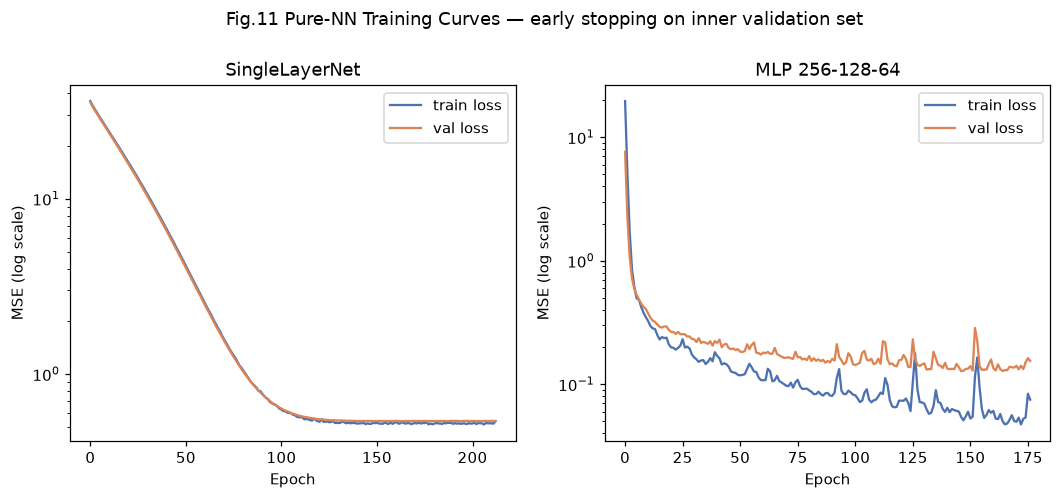
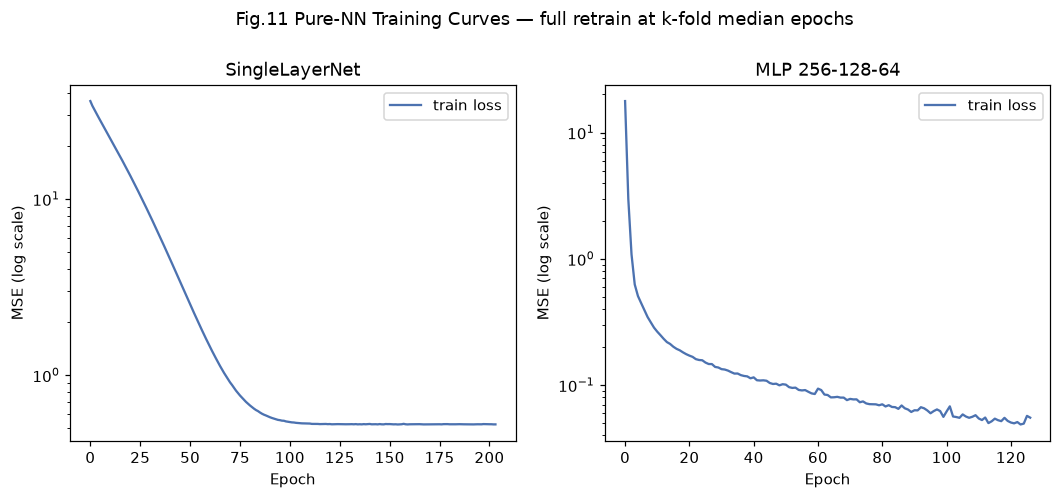
训练协议升级：5折定轮数+全量重训

diff --git a/03_train_nn.py b/03_train_nn.py
@@ -2,7 +2,7 @@
 """
 03_train_nn.py — 纯神经网络版：单层网络 + 多层感知机（MLP）
 ==========================================================
-共享单车租赁需求预测 | 阶段三
+共享单车租赁需求预测 | 阶段三（两阶段训练协议）
 
 目的：对应《动手学深度学习》主线（线性网络 → 多层感知机），
       提供一个**不依赖任何前序脚本产物**的独立全流程——
@@ -16,16 +16,18 @@
 
 本版本刻意极简，仅含 Linear 与 ReLU，不含正则化/归一化组件。
 
-流程：
-    1. 读 data/BikeData.csv → 清洗（与 02 协议一致）→ 特征工程
-    2. 目标 log1p；30% 测试集（random_state=42，与 02 完全一致）
-    3. 单层网络（无隐藏层 ≈ 线性回归）作基线
-    4. MLP（256-128-64）在训练集 80% 上训练、内切验证集早停
-    5. 测试集只在最终评估用一次：MSE/RMSE/MAE/R²，原始量纲
+两阶段训练协议（k 折交叉验证定轮数 → 全量重训）：
+    阶段一（定轮数）：5 折交叉验证切训练全集 6090 行；每折按现行超参
+        从头训练（折内再切 20% 做早停验证），记录该折最优轮数 best_epoch；
+        取五折中位数（int(np.median)）定为 EPOCHS_FINAL。
+        —— 每个数据点都当过验证点，轮数估计不再永久扣留 20% 样本。
+    阶段二（全量重训）：在 6090 行全集上以固定 epoch=EPOCHS_FINAL
+        从头训练，无验证集、无早停；早停机制只保留在阶段一。
+    测试集 30%（2610 行）从头到尾只在最终评估用一次，口径不变。
 
 输出：
-    - inbox/results_pure_nn.json      两模型四指标 + 数据行数
-    - inbox/figures/fig11_pure_nn_curves.png   单层 + MLP 训练曲线
+    - inbox/results_pure_nn.json      两模型四指标 + 协议信息
+    - inbox/figures/fig11_pure_nn_curves.png   两模型阶段二训练曲线
     - inbox/figures/fig12_pure_nn_pred.png     MLP 预测 vs 真实散点
 
 评估口径（与 02 预处理严格一致）：
@@ -44,7 +46,7 @@ import pandas as pd
 import torch
 import torch.nn as nn
 from sklearn.metrics import mean_absolute_error, mean_squared_error, r2_score
-from sklearn.model_selection import train_test_split
+from sklearn.model_selection import KFold, train_test_split
 from sklearn.preprocessing import StandardScaler
 
 # ---------- 路径：相对脚本位置推导（可移植，clone 后直接跑） ----------
@@ -55,6 +57,7 @@ FIG_DIR = INBOX / "figures"
 FIG_DIR.mkdir(parents=True, exist_ok=True)
 
 RANDOM_STATE = 42
+N_FOLDS = 5
 DEVICE = torch.device("cpu")   # 明确 CPU：数据量小，CPU 足够且可复现
 
 plt.rcParams.update({"figure.dpi": 110, "savefig.bbox": "tight"})
@@ -148,11 +151,11 @@ class MLP(nn.Module):
 # ---------- 训练循环（手写，理解每一步） ----------
 def train_model(model, X_tr, y_tr, X_val, y_val, *, lr,
                 batch_size, max_epochs, patience, tag, verbose=True):
-    """手写 mini-batch 训练循环 + 早停。
+    """手写 mini-batch 训练循环 + 早停（两阶段协议的阶段一专用）。
 
     为什么需要早停：MLP 容量大（数万参数）而训练数据仅数千行，
     容易过拟合——验证损失不再下降时停止，并回滚到验证最优权重。
-    验证集来自训练集内部，与测试集无关（防泄漏）。
+    验证集来自该折训练数据内部，与测试集无关（防泄漏）。
     """
     optimizer = torch.optim.Adam(model.parameters(), lr=lr)
     loss_fn = nn.MSELoss()                  # 回归口径：均方误差（log 空间）
@@ -200,6 +203,77 @@ def train_model(model, X_tr, y_tr, X_val, y_val, *, lr,
     return history, best_epoch, best_val
 
 
+def train_full(model, X_tr, y_tr, *, lr, batch_size, epochs, tag):
+    """阶段二：固定轮数全量重训（无验证集、无早停）。
+
+    轮数已由阶段一五折中位数确定；这里在训练全集（6090 行）上从头训练，
+    每一行数据都参与拟合——不再永久扣留 20% 样本做早停验证。
+    训练损失曲线完整记录（用于 fig11）。
+    """
+    optimizer = torch.optim.Adam(model.parameters(), lr=lr)
+    loss_fn = nn.MSELoss()
+    n = X_tr.shape[0]
+    history = {"train": []}
+
+    for epoch in range(1, epochs + 1):
+        model.train()
+        perm = torch.randperm(n)
+        epoch_loss, n_batches = 0.0, 0
+        for i in range(0, n, batch_size):
+            idx = perm[i:i + batch_size]
+            xb, yb = X_tr[idx], y_tr[idx]
+            optimizer.zero_grad()
+            loss = loss_fn(model(xb), yb)
+            loss.backward()
+            optimizer.step()
+            epoch_loss += loss.item()
+            n_batches += 1
+        history["train"].append(epoch_loss / n_batches)
+        if epoch % 50 == 0 or epoch == 1:
+            print(f"    [{tag}] epoch {epoch:>4}  train MSE={history['train'][-1]:.4f}")
+    return history
+
+
+def run_two_stage(tag, make_model, X_all, y_all, *, lr, batch_size,
+                  max_epochs, patience):
+    """两阶段协议（对每个模型执行）：5 折定轮数 → 全量重训。
+
+    阶段一：KFold(5, shuffle, random_state=42) 切训练全集；每折内再切
+            20% 做早停验证（与旧协议同口径，测试集零参与），从头训练
+            并记录该折 best_epoch；五折中位数定为 EPOCHS_FINAL。
+    阶段二：重置种子后在全集上以固定轮数从头训练。
+    每次训练（每折、每阶段）前都重置种子，保证两遍运行逐字节幂等。
+    """
+    kf = KFold(n_splits=N_FOLDS, shuffle=True, random_state=RANDOM_STATE)
+    fold_best = []
+    for k, (tr_idx, _) in enumerate(kf.split(X_all), 1):
+        Xk, yk = X_all[tr_idx], y_all[tr_idx]
+        X_fit, X_val, y_fit, y_val = train_test_split(
+            Xk, yk, test_size=0.2, random_state=RANDOM_STATE)
+        torch.manual_seed(RANDOM_STATE)     # 每折同种子：折间可比、重跑幂等
+        np.random.seed(RANDOM_STATE)
+        model = make_model().to(DEVICE)
+        _, best_epoch, best_val = train_model(
+            model, torch.tensor(X_fit), torch.tensor(y_fit),
+            torch.tensor(X_val), torch.tensor(y_val),
+            lr=lr, batch_size=batch_size, max_epochs=max_epochs,
+            patience=patience, tag=f"{tag}-fold{k}", verbose=False)
+        fold_best.append(best_epoch)
+        print(f"  [{tag}] 折 {k}/{N_FOLDS}: best_epoch={best_epoch:>3}  "
+              f"(best val MSE={best_val:.4f})")
+
+    epochs_final = int(np.median(fold_best))
+    print(f"  [{tag}] 五折 best_epoch 中位数 = {epochs_final} → 阶段二固定轮数")
+
+    torch.manual_seed(RANDOM_STATE)         # 阶段二同样固定种子
+    np.random.seed(RANDOM_STATE)
+    model = make_model().to(DEVICE)
+    hist = train_full(model, torch.tensor(X_all), torch.tensor(y_all),
+                      lr=lr, batch_size=batch_size,
+                      epochs=epochs_final, tag=f"{tag}-final")
+    return model, hist, epochs_final
+
+
 def evaluate(name, model, X_te, y_log_te, results, config=None):
     """统一评估：log 空间预测 → expm1 还原 → clip(0) → 原始量纲四指标。
 
@@ -227,14 +301,13 @@ def evaluate(name, model, X_te, y_log_te, results, config=None):
 
 # ---------- 可视化（标签用英文，避免环境缺中文字体出现方框） ----------
 def plot_curves(hist_sl, hist_mlp):
-    """Fig.11 单层 + MLP 训练曲线（log 纵轴：损失跨数量级更清晰）。"""
+    """Fig.11 单层 + MLP 阶段二训练曲线（log 纵轴：损失跨数量级更清晰）。"""
     fig, axes = plt.subplots(1, 2, figsize=(11.5, 4.2))
     for ax, (title, h) in zip(axes, [("SingleLayerNet", hist_sl), ("MLP 256-128-64", hist_mlp)]):
         ax.plot(h["train"], label="train loss", color="#4C72B0")
-        ax.plot(h["val"], label="val loss", color="#DD8452")
         ax.set(xlabel="Epoch", ylabel="MSE (log scale)", title=title, yscale="log")
         ax.legend()
-    fig.suptitle("Fig.11 Pure-NN Training Curves — early stopping on inner validation set",
+    fig.suptitle("Fig.11 Pure-NN Training Curves — full retrain at k-fold median epochs",
                  y=1.04)
     fig.savefig(FIG_DIR / "fig11_pure_nn_curves.png")
     plt.close(fig)
@@ -257,7 +330,7 @@ def plot_pred(true, pred):
 # ---------- 主流程 ----------
 def main():
     print("=" * 60)
-    print("阶段三：纯神经网络版（单层 + MLP，CPU 训练）")
+    print("阶段三：纯神经网络版（两阶段协议：5折定轮数 + 全量重训）")
     print("=" * 60)
 
     # ---- 1) 数据：原始 csv → 清洗 → 特征工程 → 划分（全部自包含） ----
@@ -273,6 +346,7 @@ def main():
     print(f"[划分] 训练 {X_train.shape[0]} 行 / 测试 {X_test.shape[0]} 行"
           f"（30%，random_state=42）")
     assert X_test.shape[0] == 2610, f"测试集行数异常：{X_test.shape[0]}（应为 2610）"
+    assert X_train.shape[0] == 6090, f"训练集行数异常：{X_train.shape[0]}（应为 6090）"
 
     # 标准化：神经网络对输入量纲敏感（各特征梯度尺度不一）。
     # scaler 只在训练集上 fit 再变换测试集——防止测试集统计量泄漏进训练
@@ -281,50 +355,34 @@ def main():
     Xte = scaler.transform(X_test).astype(np.float32)
     ytr = y_train.to_numpy(dtype=np.float32)
     yte = y_test.to_numpy(dtype=np.float32)
-
-    # 早停用验证集：从训练集内再切 20%（测试集零参与）
-    X_fit, X_val, y_fit, y_val = train_test_split(
-        Xtr, ytr, test_size=0.2, random_state=RANDOM_STATE)
-    X_fit, y_fit = torch.tensor(X_fit), torch.tensor(y_fit)
-    X_val, y_val = torch.tensor(X_val), torch.tensor(y_val)
     X_te, y_te = torch.tensor(Xte), torch.tensor(yte)
-    print(f"[切分] 早停验证集 {X_val.shape[0]} 行（来自训练集内部）")
+    print(f"[协议] 阶段一 KFold({N_FOLDS}) 定轮数 → 阶段二 {Xtr.shape[0]} 行全量重训")
 
     results = {}
 
     # ================= 2) 单层网络（基线，≈线性回归） =================
     print("\n---- 1. 单层网络（无隐藏层，≈线性回归） ----")
-    torch.manual_seed(RANDOM_STATE)         # 固定初始化，重跑幂等
-    np.random.seed(RANDOM_STATE)
-    sl = SingleLayerNet(Xtr.shape[1]).to(DEVICE)
-    # 超参取自此前的验证集调参结论
-    hist_sl, ep_sl, _ = train_model(
-        sl, X_fit, y_fit, X_val, y_val,
-        lr=0.01, batch_size=512, max_epochs=500,
-        patience=50, tag="SingleLayerNet")
+    sl, hist_sl, ep_sl = run_two_stage(
+        "SingleLayerNet", lambda: SingleLayerNet(Xtr.shape[1]),
+        Xtr, ytr, lr=0.01, batch_size=512, max_epochs=500, patience=50)
     n_params_sl = sum(p.numel() for p in sl.parameters())
     print(f"    参数量 {n_params_sl}（= 特征数 {Xtr.shape[1]} 个权重 + 1 个截距）")
     pred_sl, true_te = evaluate(
         "SingleLayerNN", sl, X_te, y_te, results,
-        config={"lr": 0.01, "batch_size": 512, "best_epoch": ep_sl,
-                "n_params": n_params_sl})
+        config={"lr": 0.01, "batch_size": 512, "folds": N_FOLDS,
+                "epochs_final": ep_sl, "n_params": n_params_sl})
 
     # ================= 3) MLP（256-128-64） =================
     print("\n---- 2. MLP（hidden 256-128-64，Linear+ReLU） ----")
-    torch.manual_seed(RANDOM_STATE)         # 同种子：与单层可比
-    np.random.seed(RANDOM_STATE)
-    mlp = MLP(Xtr.shape[1], hidden=(256, 128, 64)).to(DEVICE)
-    # 超参取自此前的验证集调参结论
-    hist_mlp, ep_mlp, _ = train_model(
-        mlp, X_fit, y_fit, X_val, y_val,
-        lr=1e-3, batch_size=256, max_epochs=300,
-        patience=30, tag="MLP")
+    mlp, hist_mlp, ep_mlp = run_two_stage(
+        "MLP", lambda: MLP(Xtr.shape[1], hidden=(256, 128, 64)),
+        Xtr, ytr, lr=1e-3, batch_size=256, max_epochs=300, patience=30)
     n_params_mlp = sum(p.numel() for p in mlp.parameters())
     print(f"    参数量 {n_params_mlp}")
     pred_mlp, _ = evaluate(
         "MLP", mlp, X_te, y_te, results,
-        config={"hidden": "256-128-64", "lr": 1e-3,
-                "batch_size": 256, "best_epoch": ep_mlp,
+        config={"hidden": "256-128-64", "lr": 1e-3, "batch_size": 256,
+                "folds": N_FOLDS, "epochs_final": ep_mlp,
                 "n_params": n_params_mlp})
 
     # ================= 4) 可视化 + 落盘 =================
@@ -334,10 +392,10 @@ def main():
     out = {
         "meta": {
             "script": "03_train_nn.py",
-            "pipeline": "独立全流程：读原始数据 → 清洗（复刻 02 协议）→ "
-                        "特征工程 → 30% 划分 → 单层 + MLP → 测试集一次评估",
+            "pipeline": "kfold5-determine-epochs + full-retrain",
             "rows_raw": 8820, "rows_after_dedup": 8760, "rows_clean": 8700,
-            "train_rows": int(Xtr.shape[0]), "test_rows": int(Xte.shape[0]),
+            "train_rows_final": int(Xtr.shape[0]),
+            "test_rows": int(Xte.shape[0]),
             "n_features": int(Xtr.shape[1]),
             "random_state": RANDOM_STATE,
             "device": "cpu",

diff --git a/README.md b/README.md
@@ -8,7 +8,7 @@
 - 数据：[Seoul Bike Sharing Demand Data (UCI)](https://archive.ics.uci.edu/dataset/560/seoul+bike+sharing+demand)，2017-12-01 ~ 2018-11-30 全年小时级记录，8820 行 × 14 列，里面埋了三类要清洗的脏数据（见实现说明）
 - 特征：小时、温度、湿度、风速、能见度、露点、太阳辐射、降雨、降雪、季节、节假日、是否营业日
 - 主线：单层网络（无隐藏层，数学上≈线性回归，作基线）→ 多层感知机 MLP（256-128-64，Linear+ReLU），对应《动手学深度学习》从线性网络到多层感知机的学习路径
-- 主要结果：MLP 30% 测试集 RMSE=205.6 / R²=0.896，单层基线 R²=0.568，完整指标见下文④
+- 主要结果：MLP 30% 测试集 RMSE=211.0 / R²=0.890，单层基线 R²=0.566，完整指标见下文④
 
 ## ② 运行方式
 
@@ -35,11 +35,12 @@ python 03_train_nn.py   # 纯神经网络训练评估 → fig11~12 + inbox/resul
    - 目标列 60 个 -1（租赁量不可能为负）→ 删除；清洗后 8700 行
 2. **特征工程**：Date 派生 Month/DayOfWeek/IsWeekend；Hour 用 sin/cos 周期编码（23 点与 0 点相邻）；类别 one-hot（drop_first 防虚拟变量陷阱）→ 19 个特征
 3. **目标变换**：右偏（skew=1.16）→ log1p 训练、expm1 还原评估、clip(0) 非负截断
-4. **切分与缩放**：30% 测试集（random_state=42）；StandardScaler 只在训练集上 fit 再变换测试集，防测试集统计量泄漏；神经网络训练用数据为训练集内部再切 80%（4872 行），其余 20%（1218 行）作早停验证集
+4. **切分与缩放**：30% 测试集（random_state=42）；StandardScaler 只在训练集上 fit 再变换测试集，防测试集统计量泄漏
 5. **网络定义**（本版本刻意极简，仅含 Linear 与 ReLU，不含正则化/归一化组件）：
    - `SingleLayerNet`：单层 `nn.Linear(19, 1)`，20 个参数（19 权重 + 1 截距）
    - `MLP`：三层隐藏 256-128-64，每层 `nn.Linear + nn.ReLU`，末层 Linear 到 1，共 46337 个参数
-6. **训练配置**：手写 mini-batch 训练循环（前向 → MSE → 反向传播 → Adam 步进，零高层封装）；单层 lr=0.01 / batch 512 / 上限 500 轮 / 早停耐心 50；MLP lr=1e-3 / batch 256 / 上限 300 轮 / 早停耐心 30；早停回滚到验证最优权重；超参取自此前的验证集调参结论
+6. **训练配置**：手写 mini-batch 训练循环（前向 → MSE → 反向传播 → Adam 步进，零高层封装）；单层 lr=0.01 / batch 512 / 上限 500 轮 / 早停耐心 50；MLP lr=1e-3 / batch 256 / 上限 300 轮 / 早停耐心 30；超参取自此前的验证集调参结论（早停仅用于阶段一折内验证）
+7. **两阶段协议**（5 折交叉验证定轮数 → 全量重训）：阶段一用 `KFold(5, shuffle=True, random_state=42)` 切全部 6090 行训练数据，每折内再切 20% 做早停、记录该折最优轮数，取五折中位数为最终轮数（单层 204 / MLP 127）；阶段二在 6090 行全集上以该固定轮数从头重训。用 k 折代替"永久扣 20%"——每个数据点既当训练又当验证，收回早停长期占用 20% 样本的损失，且不新增任何模型组件
 
 ## ④ 测试与验证方式
 
@@ -47,12 +48,12 @@ python 03_train_nn.py   # 纯神经网络训练评估 → fig11~12 + inbox/resul
 
 | 模型 | MSE | RMSE | MAE | R² |
 |---|---|---|---|---|
-| SingleLayerNN | 175485.6 | 418.9 | 267.4 | 0.5682 |
-| MLP 256-128-64 | 42271.8 | 205.6 | 121.0 | 0.8960 |
+| SingleLayerNN | 176277.0 | 419.9 | 267.6 | 0.5662 |
+| MLP 256-128-64 | 44528.0 | 211.0 | 125.7 | 0.8904 |
 
-- **复现（两次运行逐字节幂等）**：全流程 random_state=42（数据划分、模型种子、torch 初始化），连续两次运行 `03_train_nn.py` 产出的 `inbox/results_pure_nn.json` md5 完全一致（`a492481a4ad655146c5157134c334f86`），stdout 输出亦逐行相同
+- **复现（两次运行逐字节幂等）**：全流程 random_state=42（数据划分、模型种子、torch 初始化），连续两次运行 `03_train_nn.py` 产出的 `inbox/results_pure_nn.json` md5 完全一致（`ada2536e1784d0030141714a61275fd5`），stdout 输出亦逐行相同
 - **内置断言**：清洗后行数 ≠8700 或测试集 ≠2610 行直接报错，防协议漂移
-- **合理性范围**：单层 R²=0.568 贴住线性基线（退化结构=线性模型，是协议校验和）；MLP 相对单层 RMSE 下降约 51%。数字若对不上，先查数据清洗是否生效（行数应为 8700）
+- **合理性范围**：单层 R²=0.566 贴住线性基线（退化结构=线性模型，是协议校验和）；MLP 相对单层 RMSE 下降约 50%。数字若对不上，先查数据清洗是否生效（行数应为 8700）
 
 ## ⑤ 已知限制
 
